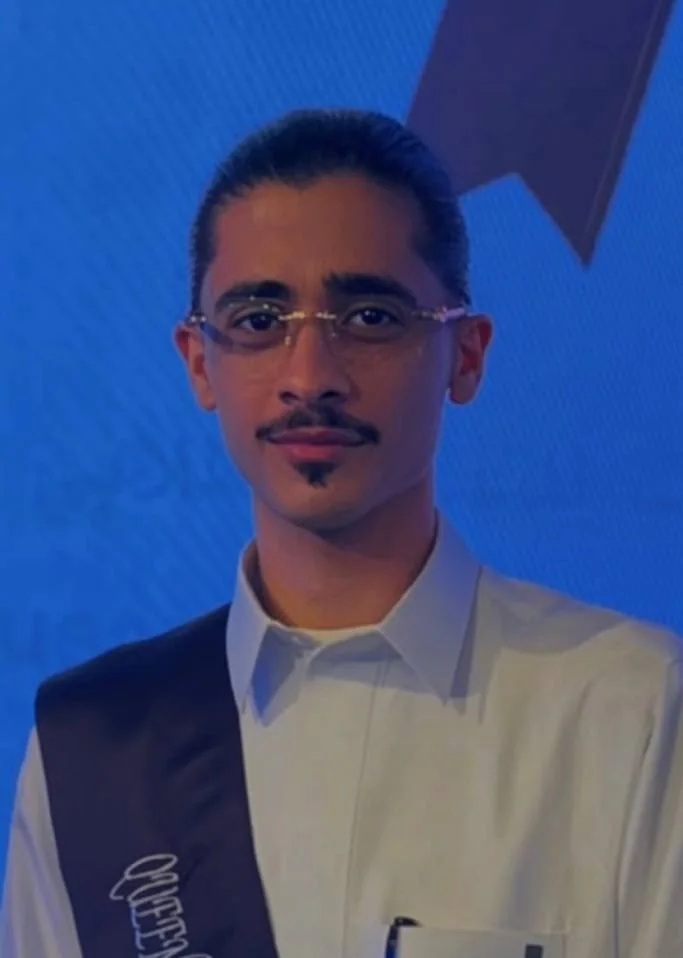
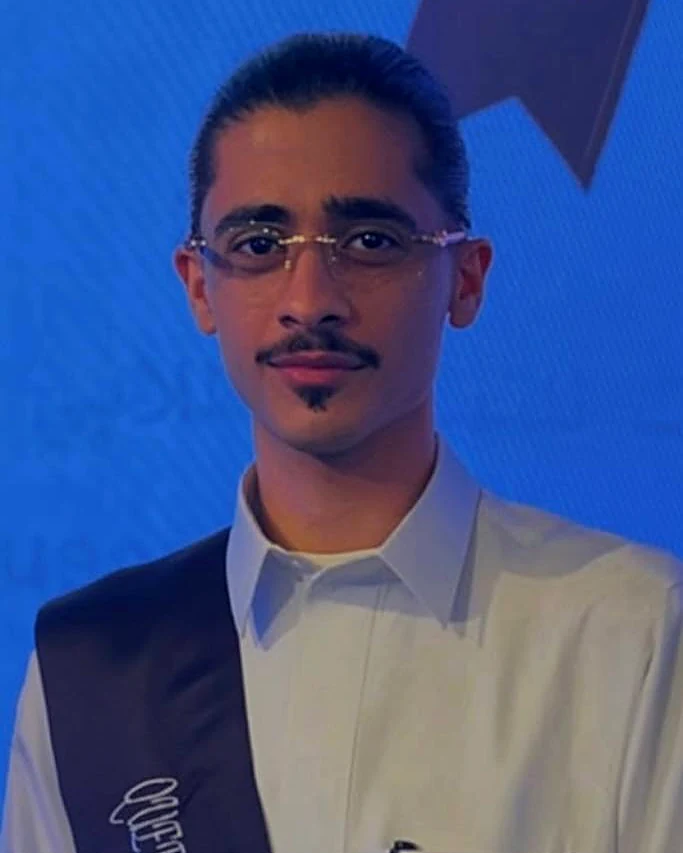
Add photo/Bitmoji flip, certificates, President's List and IEEE CS role
- Portrait flips between photo and Bitmoji (click, tap or keyboard)
- Bitmoji badge on the contact card
- 27 certificates with filters, previews and Coursera verification links
- President's List 2025-26, IEEE Computer Society VP, 163 volunteer hours
- Correct UGRF edition to the 7th forum

diff --git a/index.html b/index.html
@@ -68,6 +68,7 @@
     <symbol id="i-award" viewBox="0 0 24 24"><circle cx="12" cy="9" r="6"/><path d="m8.5 14.5-1.5 7 5-3 5 3-1.5-7"/></symbol>
     <symbol id="i-doc" viewBox="0 0 24 24"><path d="M14 3H7a2 2 0 0 0-2 2v14a2 2 0 0 0 2 2h10a2 2 0 0 0 2-2V8z"/><path d="M14 3v5h5M9 13h6M9 17h6"/></symbol>
     <symbol id="i-cert" viewBox="0 0 24 24"><rect x="3" y="4" width="18" height="12" rx="2"/><path d="M7 8h10M7 12h6M15 16l-1 5 3-2 3 2-1-5"/></symbol>
+    <symbol id="i-close" viewBox="0 0 24 24"><path d="M6 6l12 12M18 6 6 18"/></symbol>
     <symbol id="i-spark" viewBox="0 0 24 24"><path d="M12 3v4M12 17v4M3 12h4M17 12h4M6 6l2.5 2.5M15.5 15.5 18 18M6 18l2.5-2.5M15.5 8.5 18 6"/></symbol>
   </svg>
 
@@ -84,6 +85,7 @@
           <li><a href="#work">Work</a></li>
           <li><a href="#about">About</a></li>
           <li><a href="#experience">Experience</a></li>
+          <li><a href="#certificates">Certificates</a></li>
           <li><a href="#skills">Skills</a></li>
           <li><a href="#education">Education</a></li>
           <li><a href="#contact">Contact</a></li>
@@ -127,7 +129,7 @@
             </div>
           </div>
           <div class="hero-facts">
-            <div class="fact"><strong>4.00</strong><span>Cumulative GPA<br>Dean's List</span></div>
+            <div class="fact"><strong>4.00</strong><span>GPA · President's<br>List 2025–26</span></div>
             <div class="fact"><strong>UGRF</strong><span>2026 research<br>paper &amp; poster</span></div>
             <div class="fact"><strong>9</strong><span>Projects in<br>this portfolio</span></div>
           </div>
@@ -187,9 +189,13 @@
     <section class="section" id="about" style="background: var(--bg-2);">
       <div class="container about-grid">
         <figure class="portrait reveal">
-          <img src="images/me/photo.webp" width="683" height="958" alt="Osama Abutaha at an Effat University event" loading="lazy">
-          <div class="avatar-badge" aria-hidden="true"><img src="images/me/avatar.webp" alt="" loading="lazy"></div>
-          <figcaption>Jeddah, Saudi Arabia</figcaption>
+          <button class="flip" type="button" aria-pressed="false" aria-label="Show my Bitmoji instead of my photo">
+            <span class="flip-inner">
+              <span class="flip-face flip-front"><img src="images/me/photo.webp" width="683" height="853" alt="Photo of Osama Abutaha" loading="lazy"></span>
+              <span class="flip-face flip-back"><img src="images/me/bitmoji.webp" width="640" height="900" alt="Osama Abutaha's Bitmoji" loading="lazy"></span>
+            </span>
+          </button>
+          <figcaption><span class="flip-hint">Tap the photo to meet my Bitmoji</span><span>Jeddah, Saudi Arabia</span></figcaption>
         </figure>
         <div class="about-copy reveal">
           <p class="eyebrow">About me</p>
@@ -201,9 +207,9 @@
             interfaces that make those results usable.
           </p>
           <p>
-            I've maintained a <strong>4.00 GPA</strong> on the Dean's List and presented research at
-            Effat's Undergraduate Research Forum. Outside class I lead the university's futsal club,
-            organise events, and care a lot about clear communication: documentation, posters and demos
+            I've maintained a <strong>4.00 GPA</strong>, was named to the <strong>President's List</strong> for 2025–2026, and presented research at
+            Effat's Undergraduate Research Forum. Outside class I serve as Vice President of the IEEE Computer Society,
+            lead the university's futsal club, volunteer, and care a lot about clear communication: documentation, posters and demos
             are part of how I ship.
           </p>
           <div class="now">
@@ -236,6 +242,14 @@
             <h3 class="col-title">Leadership &amp; service</h3>
             <ol class="timeline">
               <li>
+                <span class="when">Current</span>
+                <div>
+                  <h3>Vice President, IEEE Computer Society</h3>
+                  <p class="org">Effat University · IEEE Student Member, Western Saudi Arabia Section</p>
+                  <p>Helping lead the computing society's activities for students at Effat.</p>
+                </div>
+              </li>
+              <li>
                 <span class="when">2024 – Present</span>
                 <div>
                   <h3>Leader, Effat Futsal Club</h3>
@@ -252,11 +266,11 @@
                 </div>
               </li>
               <li>
-                <span class="when">2025</span>
+                <span class="when">2025 – 2026</span>
                 <div>
-                  <h3>Student Organiser, Graduation 2025</h3>
+                  <h3>Student Organiser, Graduation Ceremonies</h3>
                   <p class="org">Effat University</p>
-                  <p>Helped coordinate logistics for the university's graduation ceremony.</p>
+                  <p>Helped organise the 2025 graduation and, with the Watheq volunteer team, the February 2026 ceremony for Effat's 42nd graduating class.</p>
                 </div>
               </li>
               <li>
@@ -266,10 +280,11 @@
                 </div>
               </li>
               <li>
-                <span class="when">Volunteering</span>
+                <span class="when">2024 – 2026</span>
                 <div>
-                  <h3>Volunteer, National Center for Non-Profit Sector</h3>
-                  <p class="org">"Let's Walk Together" community event</p>
+                  <h3>Volunteer · 163 certified hours</h3>
+                  <p class="org">National Volunteering Platform (National Center for Non-Profit Sector)</p>
+                  <p>Eight certified opportunities, including 70 hours with "Ambassadors of Giving", 65 hours with "Hands That Make an Impact", Civil Defense fire-safety awareness, and Effat's "Let's Walk Together" events.</p>
                 </div>
               </li>
               <li>
@@ -293,27 +308,43 @@
             <ul class="awards">
               <li class="award">
                 <span class="badge"><svg class="icon"><use href="#i-award"/></svg></span>
+                <div><h3>President's List · 2025–2026</h3><p>Effat University, for academic excellence</p></div>
+              </li>
+              <li class="award">
+                <span class="badge"><svg class="icon"><use href="#i-award"/></svg></span>
                 <div><h3>Dean's List · 4.00 GPA</h3><p>Effat University, College of Engineering</p></div>
               </li>
               <li class="award">
                 <span class="badge"><svg class="icon"><use href="#i-doc"/></svg></span>
-                <div><h3>UGRF 2026 Research Presenter</h3><p>4th Undergraduate Research Forum: paper and poster on multi-disease health risk prediction (certificate of participation)</p></div>
+                <div><h3>UGRF 2026 Research Presenter</h3><p>7th Effat Undergraduate Research Forum (Feb 2026): research poster on multi-disease health risk prediction</p></div>
               </li>
               <li class="award">
                 <span class="badge"><svg class="icon"><use href="#i-cert"/></svg></span>
-                <div><h3>Presentation Honors</h3><p>University of Colorado Boulder</p></div>
+                <div><h3>Successful Presentation, with honors</h3><p>University of Colorado Boulder via Coursera · 2025</p></div>
               </li>
               <li class="award">
-                <span class="badge"><svg class="icon"><use href="#i-cert"/></svg></span>
-                <div><h3>Programming for Everybody &amp; Python Data Structures</h3><p>University of Michigan via Coursera · 2024</p></div>
-              </li>
-              <li class="award">
-                <span class="badge"><svg class="icon"><use href="#i-cert"/></svg></span>
-                <div><h3>Generating Video Using AI · Advanced Adobe Photoshop</h3><p>Professional courses</p></div>
+                <span class="badge"><svg class="icon"><use href="#i-spark"/></svg></span>
+                <div><h3>163 certified volunteer hours</h3><p>National Volunteering Platform · 2024–2026</p></div>
               </li>
             </ul>
+            <a class="btn btn-ghost btn-sm" href="#certificates" style="margin-top:1rem">See all certificates <svg class="icon icon-arrow"><use href="#i-arrow"/></svg></a>
           </div>
         </div>
+      </div>
+    </section>
+
+    <!-- ============ CERTIFICATES ============ -->
+    <section class="section" id="certificates" style="padding-top:0">
+      <div class="container">
+        <div class="section-head reveal">
+          <p class="eyebrow">Certificates</p>
+          <h2>Always <em class="accent">learning</em>, on record.</h2>
+          <p>Courses, workshops and memberships. Where the issuer offers verification, each card links to it.</p>
+        </div>
+        <div class="toolbar reveal">
+          <div class="filters" id="cert-filters" role="group" aria-label="Filter certificates"></div>
+        </div>
+        <div class="cert-grid" id="cert-grid" aria-live="polite"></div>
       </div>
     </section>
 
@@ -425,6 +456,7 @@
     <section class="section contact" id="contact">
       <div class="container">
         <div class="contact-card reveal">
+          <img class="contact-bitmoji" src="images/me/bitmoji.webp" width="640" height="900" alt="" aria-hidden="true" loading="lazy">
           <p class="eyebrow">Contact</p>
           <h2>Let's build something <em class="accent">useful</em>.</h2>
           <p>I'm looking for internships and research opportunities in AI and software engineering. The fastest way to reach me is email.</p>
@@ -450,6 +482,12 @@
       </div>
     </div>
   </footer>
+
+  <dialog class="lightbox" id="lightbox" aria-label="Certificate preview">
+    <button class="icon-btn close" type="button" aria-label="Close preview"><svg class="icon"><use href="#i-close"/></svg></button>
+    <img alt="">
+    <p></p>
+  </dialog>
 
   <script src="js/data.js"></script>
   <script src="js/main.js"></script>

diff --git a/js/data.js b/js/data.js
@@ -427,3 +427,47 @@ window.CATEGORIES = [
   { id: "systems", label: "Systems & Networks" },
   { id: "research", label: "Research" }
 ];
+
+/*
+  Certificates from the شهاداتي folder. "verify" is the issuer's own verification
+  link (Coursera) where one exists; "image" is a preview of certificates that
+  contain no ID numbers. Volunteering certificates show a national ID, so they
+  are summarised in the Experience section instead of shown here.
+*/
+window.CERT_GROUPS = [
+  { id: "all", label: "All" },
+  { id: "ai", label: "AI, Data & Programming" },
+  { id: "pro", label: "Professional Skills" },
+  { id: "events", label: "Workshops & Research" },
+  { id: "member", label: "Memberships & Sport" }
+];
+
+window.CERTIFICATES = [
+  { group: "ai", title: "Mathematics for Machine Learning and Data Science", kind: "Specialization · 3 courses", issuer: "DeepLearning.AI", date: "Dec 2025", verify: "https://coursera.org/verify/specialization/L3EQF7FKZVE6", image: "images/certs/math-ml-specialization.webp", featured: true },
+  { group: "ai", title: "Python for Data Science, AI & Development", kind: "Course", issuer: "IBM", date: "Nov 2025", verify: "https://coursera.org/verify/4SDE5U377HZB", image: "images/certs/ibm-python-ds.webp", featured: true },
+  { group: "ai", title: "Python Data Structures", kind: "Course", issuer: "University of Michigan", date: "Apr 2024", verify: "https://coursera.org/verify/JL8WGFMZ6BKA", image: "images/certs/python-data-structures.webp" },
+  { group: "ai", title: "Programming for Everybody (Getting Started with Python)", kind: "Course", issuer: "University of Michigan", date: "Mar 2024", verify: "https://coursera.org/verify/J8LNZZD42ZFX", image: "images/certs/programming-for-everybody.webp" },
+  { group: "ai", title: "Applications of AI in Improving Safety Systems", kind: "Training course", issuer: "Sindal", date: "Oct 2025", image: "images/certs/ai-safety-systems.webp" },
+  { group: "ai", title: "Python Basics", kind: "Training course · 3 hours", issuer: "HackerRank Developers Club (HRSD)", date: "Dec 2023" },
+  { group: "pro", title: "Successful Presentation", kind: "Course · with honors", issuer: "University of Colorado Boulder", date: "Mar 2025", verify: "https://coursera.org/verify/ONFS8PKL0JYX", image: "images/certs/successful-presentation.webp", featured: true },
+  { group: "pro", title: "Intellectual Property as Competitive Advantage for Companies", kind: "Course", issuer: "EDHEC Business School", date: "Apr 2026", verify: "https://coursera.org/verify/6PWYCTEN5LBB", image: "images/certs/intellectual-property.webp" },
+  { group: "pro", title: "Business Strategy: Business Model Canvas Analysis with Miro", kind: "Guided project", issuer: "Coursera", date: "Apr 2026", verify: "https://coursera.org/verify/2AAQ6TL7JV88", image: "images/certs/business-strategy-miro.webp" },
+  { group: "pro", title: "Personal Productivity, Time Management and Prioritization", kind: "Course", issuer: "Starweaver", date: "Mar 2024", verify: "https://coursera.org/verify/ZHYVHNFU7TPS", image: "images/certs/productivity.webp" },
+  { group: "pro", title: "Academic Information Seeking", kind: "Course", issuer: "University of Copenhagen & DTU", date: "Oct 2024", verify: "https://coursera.org/verify/GU3UC3I65Y4S", image: "images/certs/academic-information-seeking.webp" },
+  { group: "pro", title: "Digital Safety and Security", kind: "Course", issuer: "Arizona State University", date: "Oct 2024", verify: "https://coursera.org/verify/CGFUBLOAL3Y4", image: "images/certs/digital-safety.webp" },
+  { group: "pro", title: "Digital Tools and Well-Being", kind: "Course", issuer: "Arizona State University", date: "Mar 2024", verify: "https://coursera.org/verify/QGK2GX3TGMTF" },
+  { group: "pro", title: "Digital Communication and Emotion", kind: "Course", issuer: "Arizona State University", date: "Mar 2025", verify: "https://coursera.org/verify/AIK3EYXCG7DZ" },
+  { group: "pro", title: "The Great Sustainability Transition: Global Challenges, Local Actions", kind: "Course", issuer: "Leiden University", date: "Nov 2025", verify: "https://coursera.org/verify/JBRW613DX1CQ", image: "images/certs/sustainability-transition.webp" },
+  { group: "pro", title: "The Sustainable Development Goals: A Global, Transdisciplinary Vision", kind: "Course", issuer: "University of Copenhagen", date: "Nov 2025", verify: "https://coursera.org/verify/GEWEAL4L5XLQ", image: "images/certs/sdgs.webp" },
+  { group: "pro", title: "Design Brainstorming Diagrams for Businesses with Creately", kind: "Guided project", issuer: "Coursera", date: "Apr 2026", verify: "https://coursera.org/verify/R5W2JUXMTH6S" },
+  { group: "pro", title: "Create a Business Mind Map with Coggle", kind: "Guided project", issuer: "Coursera", date: "Apr 2026", verify: "https://coursera.org/verify/BNIDCPUJ2E47" },
+  { group: "pro", title: "English Grammar (3 courses: Simple Past; Word Forms & Simple Present; Questions, Progressive & Future)", kind: "Courses", issuer: "University of California, Irvine", date: "2025 – 2026", verify: "https://coursera.org/verify/KC1GWQOM5MOZ" },
+  { group: "pro", title: "Ultimate Photoshop Course: Step by Step", kind: "Course · 2 hours", issuer: "Udemy", date: "Jul 2020", image: "images/certs/photoshop-udemy.webp" },
+  { group: "pro", title: "How to Write a Successful CV", kind: "Course · 1 hour", issuer: "Doroob", date: "Jan 2022" },
+  { group: "events", title: "7th Undergraduate Research Forum: Research Poster", kind: "Certificate of participation", issuer: "Effat University", date: "Feb 2026", image: "images/certs/ugrf-2026.webp", featured: true },
+  { group: "events", title: "Digital Portfolio Building Workshop", kind: "Certificate of attendance", issuer: "Effat University", date: "Nov 2025", image: "images/certs/portfolio-workshop.webp" },
+  { group: "events", title: "Generating Videos using AI Workshop", kind: "Certificate of attendance", issuer: "Effat College of Engineering", date: "Mar 2024", image: "images/certs/ai-video-workshop.webp" },
+  { group: "member", title: "IEEE Computer Society Student Member", kind: "Membership", issuer: "IEEE Computer Society", date: "2026", image: "images/certs/ieee-cs-membership.webp" },
+  { group: "member", title: "IEEE Student Member, Western Saudi Arabia Section", kind: "Membership", issuer: "IEEE", date: "2026", image: "images/certs/ieee-membership.webp" },
+  { group: "member", title: "Dodgeball Coaches Preparation Course", kind: "Certificate of attendance", issuer: "Saudi Dodgeball Federation", date: "Apr 2025", image: "images/certs/dodgeball-coaching.webp" }
+];

diff --git a/css/style.css b/css/style.css
@@ -309,7 +309,7 @@ section { position: relative; }
 }
 .filter:hover { color: var(--ink); border-color: var(--ink); }
 .filter[aria-pressed="true"] { background: var(--ink); border-color: var(--ink); color: var(--bg); }
-.filter .count { margin-left: .35rem; font-family: var(--font-mono); font-size: .72rem; opacity: .6; }
+.filter .count { margin-left: .35rem; font-family: var(--font-mono); font-size: .72rem; opacity: .85; }
 .search { position: relative; }
 .search input {
   width: min(280px, 100%); padding: .62rem 1rem .62rem 2.4rem; border-radius: 999px;
@@ -346,7 +346,7 @@ section { position: relative; }
 
 /* ---------- About ---------- */
 .about-grid { display: grid; grid-template-columns: minmax(0, .8fr) minmax(0, 1.2fr); gap: clamp(32px, 6vw, 88px); align-items: start; }
-.portrait { position: relative; max-width: 380px; margin: 0; }
+.portrait { position: relative; margin: 0; }
 .portrait img { width: 100%; aspect-ratio: 4 / 5; object-fit: cover; object-position: center 20%; border-radius: var(--radius-lg); box-shadow: var(--shadow-lg); }
 .portrait figcaption { margin-top: .9rem; font-size: .82rem; color: var(--faint); }
 .portrait .avatar-badge {
@@ -591,4 +591,67 @@ td:last-child { font-weight: 700; color: var(--green); }
   html { scroll-behavior: auto; }
   *, *::before, *::after { animation: none !important; transition-duration: .01ms !important; }
   .reveal { opacity: 1; transform: none; }
+}
+
+/* ---------- Portrait flip (photo <-> Bitmoji) ---------- */
+.portrait { max-width: 340px; }
+.flip { display: block; width: 100%; padding: 0; border: 0; background: none; cursor: pointer; perspective: 1400px; border-radius: var(--radius-lg); }
+.flip-inner { position: relative; display: block; aspect-ratio: 4 / 5; transform-style: preserve-3d; transition: transform .8s var(--ease); }
+.flip[aria-pressed="true"] .flip-inner { transform: rotateY(180deg); }
+.flip-face {
+  position: absolute; inset: 0; display: block; overflow: hidden; border-radius: var(--radius-lg);
+  backface-visibility: hidden; -webkit-backface-visibility: hidden;
+  box-shadow: var(--shadow-lg); border: 1px solid var(--line); background: var(--surface);
+}
+.flip-face img { width: 100%; height: 100%; object-fit: cover; }
+.flip-front img { object-position: center 30%; }
+.flip-back { transform: rotateY(180deg); background: radial-gradient(120% 90% at 50% 100%, var(--accent-soft), transparent 60%), linear-gradient(180deg, var(--surface), var(--bg-2)); }
+.flip-back img { object-fit: contain; object-position: center bottom; padding: 10% 8% 0; }
+.flip:hover .flip-inner { box-shadow: none; }
+.flip:hover .flip-face { box-shadow: var(--shadow-lg), 0 0 0 1px var(--line-strong); }
+.flip:focus-visible { outline-offset: 6px; }
+.portrait figcaption { display: flex; justify-content: space-between; gap: 1rem; flex-wrap: wrap; }
+.flip-hint { display: inline-flex; align-items: center; gap: .4rem; color: var(--muted); }
+.flip-hint::before { content: "↻"; color: var(--accent); font-size: 1rem; line-height: 1; }
+
+/* ---------- Bitmoji on the contact card ---------- */
+.contact-card { display: grid; grid-template-columns: minmax(0, 1fr) auto; column-gap: clamp(24px, 5vw, 72px); align-items: center; }
+.contact-card > :not(.contact-bitmoji) { grid-column: 1; position: relative; z-index: 2; }
+.contact-bitmoji {
+  grid-column: 2; grid-row: 1 / span 4; align-self: center;
+  width: clamp(190px, 22vw, 290px); aspect-ratio: 1; height: auto; object-fit: contain; object-position: center bottom;
+  padding: 14% 10% 0; border-radius: 50%;
+  background: radial-gradient(circle at 50% 35%, color-mix(in srgb, var(--accent) 38%, transparent), color-mix(in srgb, var(--bg) 10%, transparent) 70%);
+  border: 1px solid color-mix(in srgb, var(--bg) 18%, transparent);
+  box-shadow: 0 30px 60px -20px rgba(0, 0, 0, .45);
+}
+.contact-links { max-width: none; }
+
+/* ---------- Certificates ---------- */
+.cert-grid { display: grid; grid-template-columns: repeat(3, minmax(0, 1fr)); gap: 1rem; }
+.cert {
+  display: grid; grid-template-rows: auto 1fr; overflow: hidden;
+  border-radius: var(--radius); background: var(--surface); border: 1px solid var(--line);
+  transition: transform .35s var(--ease), box-shadow .35s var(--ease), border-color .35s;
+}
+.cert:hover { transform: translateY(-4px); box-shadow: var(--shadow-md); border-color: var(--line-strong); }
+.cert-thumb { position: relative; display: block; width: 100%; padding: 0; border: 0; aspect-ratio: 16 / 10; overflow: hidden; background: var(--bg-2); cursor: zoom-in; border-bottom: 1px solid var(--line); }
+.cert-thumb img { width: 100%; height: 100%; object-fit: cover; object-position: center; transition: transform .6s var(--ease); }
+.cert:hover .cert-thumb img { transform: scale(1.04); }
+.cert-thumb.noimg { cursor: default; display: grid; place-items: center; background: linear-gradient(135deg, var(--bg-2), var(--surface-2)); }
+.cert-thumb.noimg span { font-family: var(--font-display); font-style: italic; font-size: 2.6rem; color: var(--accent); opacity: .7; }
+.cert-body { display: grid; gap: .45rem; padding: 1rem 1.1rem 1.15rem; align-content: start; }
+.cert-meta { display: flex; justify-content: space-between; gap: .5rem; font-family: var(--font-mono); font-size: .68rem; letter-spacing: .06em; text-transform: uppercase; color: var(--faint); }
+.cert h3 { font-family: var(--font-body); font-weight: 600; font-size: .98rem; line-height: 1.35; }
+.cert .issuer { color: var(--muted); font-size: .88rem; }
+.cert .verify { display: inline-flex; align-items: center; gap: .35rem; margin-top: .2rem; font-size: .82rem; font-weight: 600; color: var(--green); width: max-content; }
+.cert .verify:hover { text-decoration: underline; }
+.cert-more { grid-column: 1 / -1; justify-self: center; margin-top: .6rem; }
+
+@media (max-width: 1080px) { .cert-grid { grid-template-columns: repeat(2, minmax(0, 1fr)); } }
+@media (max-width: 640px) {
+  .cert-grid { grid-template-columns: 1fr; }
+  .contact-card { grid-template-columns: 1fr; }
+  .contact-bitmoji { grid-column: 1; grid-row: auto; width: 150px; order: -1; justify-self: start; margin-bottom: 1rem; }
+  .portrait { max-width: 300px; margin-inline: auto; }
 }

diff --git a/js/main.js b/js/main.js
@@ -184,5 +184,70 @@
     stage.parentElement.addEventListener("pointerleave", function () { layers.forEach(function (el, i) { el.style.transform = ""; }); });
   }
 
+  /* ---------- Portrait flip (photo <-> Bitmoji) ---------- */
+  $$(".flip").forEach(function (btn) {
+    btn.addEventListener("click", function () {
+      var on = btn.getAttribute("aria-pressed") !== "true";
+      btn.setAttribute("aria-pressed", String(on));
+      btn.setAttribute("aria-label", on ? "Show my photo instead of my Bitmoji" : "Show my Bitmoji instead of my photo");
+      var hint = btn.parentElement.querySelector(".flip-hint");
+      if (hint) hint.textContent = on ? "Tap again to see my photo" : "Tap the photo to meet my Bitmoji";
+    });
+  });
+
+  /* ---------- Certificates ---------- */
+  var certGrid = $("#cert-grid"), certFilters = $("#cert-filters");
+  var certs = window.CERTIFICATES || [];
+  if (certGrid && certFilters && certs.length) {
+    var LIMIT = 9, cState = { group: "all", all: false };
+    var groups = (window.CERT_GROUPS || []).filter(function (g) { return g.id === "all" || certs.some(function (c) { return c.group === g.id; }); });
+    certFilters.innerHTML = groups.map(function (g) {
+      var n = g.id === "all" ? certs.length : certs.filter(function (c) { return c.group === g.id; }).length;
+      return '<button type="button" class="filter" data-group="' + g.id + '" aria-pressed="' + (g.id === "all") + '">' + esc(g.label) + '<span class="count">' + n + "</span></button>";
+    }).join("");
+    // featured first, then newest first as listed
+    var ordered = certs.slice().sort(function (a, b) { return (b.featured ? 1 : 0) - (a.featured ? 1 : 0); });
+    var certCard = function (c) {
+      var thumb = c.image
+        ? '<button type="button" class="cert-thumb zoom" data-src="' + esc(c.image) + '" data-caption="' + esc(c.title + " · " + c.issuer) + '" aria-label="View certificate: ' + esc(c.title) + '"><img src="' + esc(c.image) + '" alt="" loading="lazy" decoding="async"></button>'
+        : '<div class="cert-thumb noimg" aria-hidden="true"><span>' + esc(c.issuer.charAt(0)) + "</span></div>";
+      return '<article class="cert">' + thumb + '<div class="cert-body">' +
+        '<div class="cert-meta"><span>' + esc(c.kind) + "</span><span>" + esc(c.date) + "</span></div>" +
+        "<h3>" + esc(c.title) + "</h3>" +
+        '<p class="issuer">' + esc(c.issuer) + "</p>" +
+        (c.verify ? '<a class="verify" href="' + esc(c.verify) + '" target="_blank" rel="noopener noreferrer">Verify ' + icon("external") + "</a>" : "") +
+        "</div></article>";
+    };
+    var renderCerts = function () {
+      var list = ordered.filter(function (c) { return cState.group === "all" || c.group === cState.group; });
+      var shown = cState.all ? list : list.slice(0, LIMIT);
+      certGrid.innerHTML = shown.map(certCard).join("") +
+        (list.length > LIMIT ? '<button type="button" class="btn btn-ghost btn-sm cert-more" aria-expanded="' + cState.all + '">' + (cState.all ? "Show fewer" : "Show all " + list.length + " certificates") + "</button>" : "");
+    };
+    certFilters.addEventListener("click", function (e) {
+      var b = e.target.closest(".filter"); if (!b) return;
+      cState.group = b.getAttribute("data-group"); cState.all = false;
+      $$(".filter", certFilters).forEach(function (x) { x.setAttribute("aria-pressed", String(x === b)); });
+      renderCerts();
+    });
+    certGrid.addEventListener("click", function (e) {
+      if (e.target.closest(".cert-more")) { cState.all = !cState.all; renderCerts(); }
+    });
+    renderCerts();
+  }
+
+  /* ---------- Lightbox (home page certificates) ---------- */
+  var box = $("#lightbox");
+  if (box && certGrid && typeof box.showModal === "function") {
+    var bImg = box.querySelector("img"), bCap = box.querySelector("p");
+    certGrid.addEventListener("click", function (e) {
+      var z = e.target.closest(".zoom"); if (!z) return;
+      bImg.src = z.getAttribute("data-src"); bImg.alt = z.getAttribute("data-caption");
+      bCap.textContent = z.getAttribute("data-caption"); box.showModal();
+    });
+    box.querySelector(".close").addEventListener("click", function () { box.close(); });
+    box.addEventListener("click", function (e) { if (e.target === box) box.close(); });
+  }
+
   observeReveal(document);
 })();
